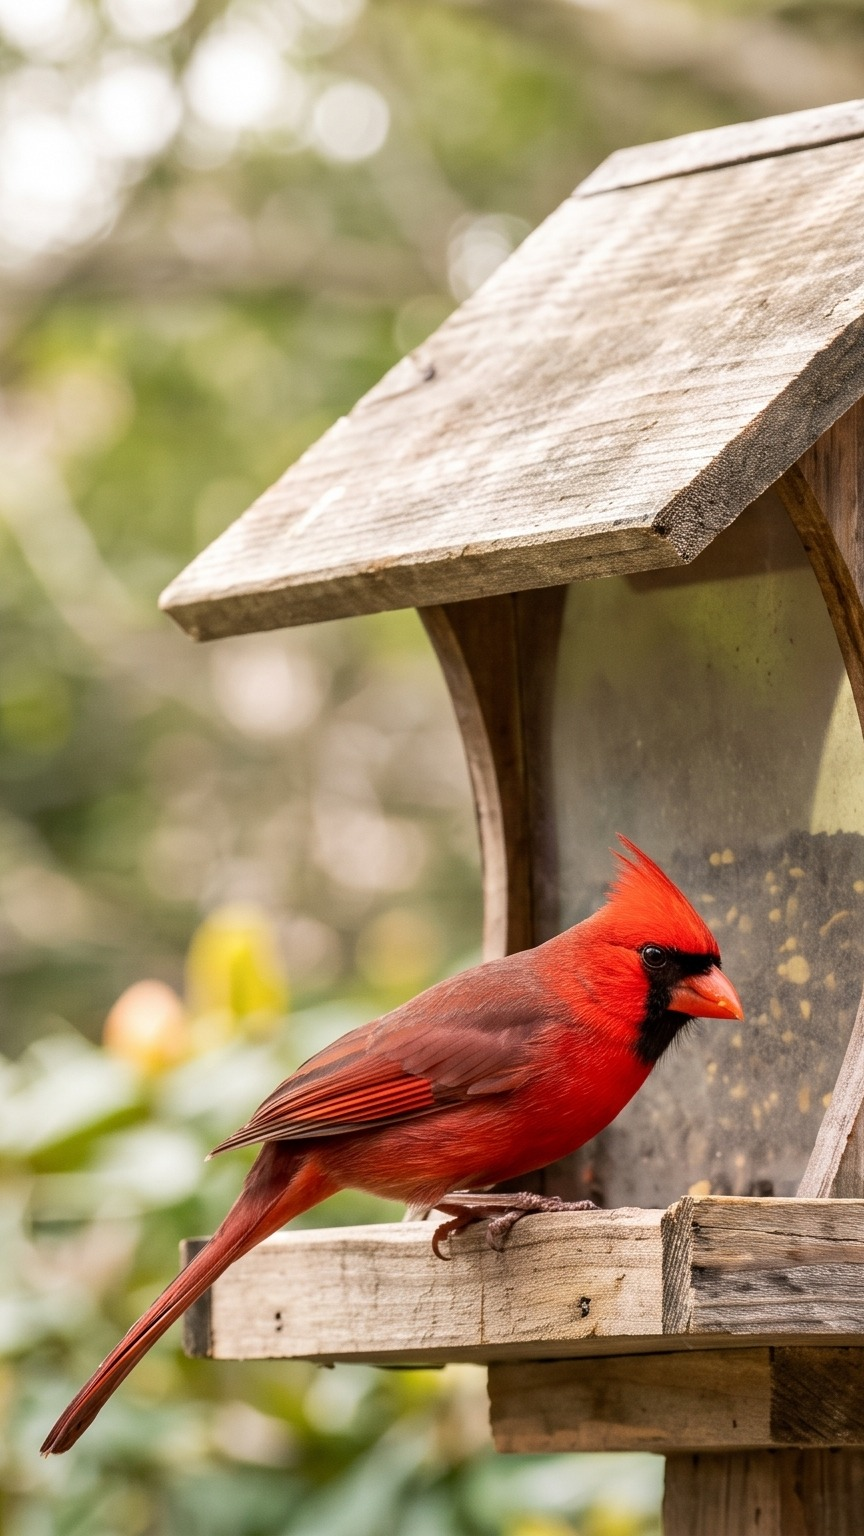
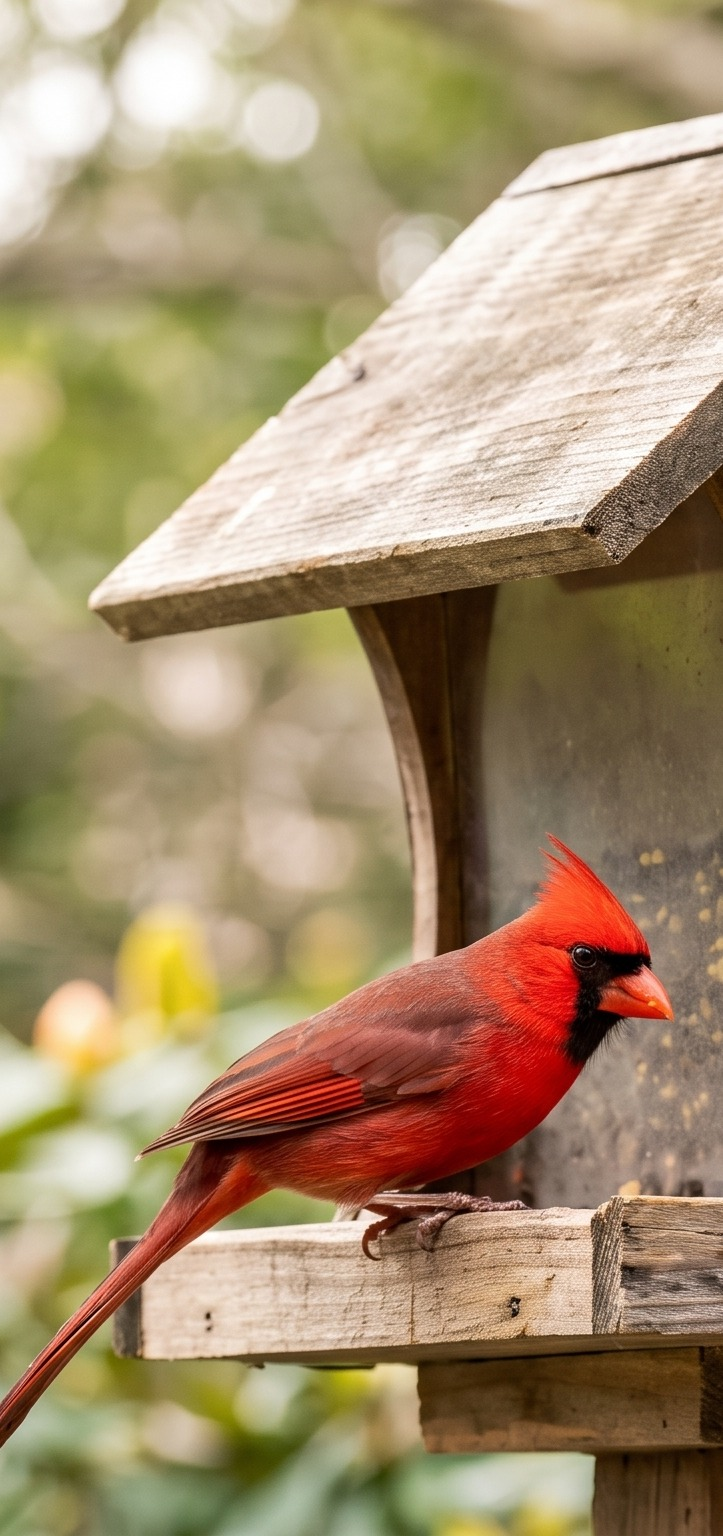
finally got somewhere

diff --git a/store_assets/screenshot-pipeline/quad-editor.html b/store_assets/screenshot-pipeline/quad-editor.html
@@ -1,0 +1,194 @@
+<!DOCTYPE html>
+<!-- Manual quad editor: drag the composited UI corners onto the device screens,
+     then copy the manifest-ready quads. Usage (from this directory):
+       open "quad-editor.html?slot=mac0"
+     Wheel = zoom, drag background = pan, drag circles = move corners.
+     Alt-drag a circle = move the whole quad. -->
+<html>
+<head>
+<meta charset="utf-8">
+<title>Quad editor</title>
+<style>
+  html, body { margin: 0; height: 100%; background: #1e1e20; color: #eee;
+               font: 13px -apple-system, sans-serif; overflow: hidden; }
+  #stage { position: absolute; inset: 0 320px 0 0; overflow: hidden; cursor: grab; }
+  #world { position: absolute; transform-origin: 0 0; }
+  #world img.scene { display: block; user-select: none; -webkit-user-drag: none; }
+  .surf { position: absolute; top: 0; left: 0; transform-origin: 0 0; opacity: 0.9; }
+  .surf img { width: 100%; height: 100%; display: block; }
+  .handle { position: absolute; width: 26px; height: 26px; margin: -13px 0 0 -13px;
+            border-radius: 50%; border: 3px solid #0af; background: rgba(0,170,255,.25);
+            cursor: crosshair; z-index: 10; }
+  .handle.h1 { border-color: #fa0; background: rgba(255,170,0,.25); }
+  #panel { position: absolute; top: 0; right: 0; bottom: 0; width: 320px;
+           background: #2a2a2e; padding: 14px; box-sizing: border-box;
+           display: flex; flex-direction: column; gap: 10px; }
+  textarea { flex: 1; background: #1a1a1c; color: #9f9; border: 1px solid #444;
+             font: 12px ui-monospace, monospace; padding: 8px; white-space: pre; }
+  button { padding: 10px; font-size: 14px; background: #0a84ff; color: white;
+           border: 0; border-radius: 8px; cursor: pointer; }
+  button:active { opacity: .7; }
+  label { display: flex; gap: 8px; align-items: center; }
+  input[type=range] { flex: 1; }
+  .hint { color: #999; font-size: 11px; line-height: 1.5; }
+</style>
+</head>
+<body>
+<div id="stage"><div id="world"></div></div>
+<div id="panel">
+  <b id="title">quad editor</b>
+  <label>UI opacity <input type="range" id="op" min="20" max="100" value="90"></label>
+  <textarea id="out" readonly spellcheck="false"></textarea>
+  <button id="copy">Copy quads to clipboard</button>
+  <div class="hint">
+    Wheel: zoom &middot; drag background: pan<br>
+    Drag a circle: move that corner<br>
+    &#8997; Alt-drag a circle: move the whole quad<br>
+    Blue = surface 0, orange = surface 1.<br>
+    When happy, press Copy and paste the block back to Claude.
+  </div>
+</div>
+<script src="manifest.js"></script>
+<script>
+(() => {
+  const params = new URLSearchParams(location.search);
+  const slotId = params.get("slot") || "mac0";
+  const slot = window.MANIFEST.slots[slotId];
+  if (!slot) { document.body.textContent = "unknown slot " + slotId; return; }
+  document.getElementById("title").textContent = "quad editor — " + slotId;
+
+  // --- homography (same math as template.html) ---
+  function basisToPoints(p1, p2, p3, p4) {
+    const m = [p1[0], p2[0], p3[0], p1[1], p2[1], p3[1], 1, 1, 1];
+    const v = solve(m, [p4[0], p4[1], 1]);
+    return mul(m, [v[0], 0, 0, 0, v[1], 0, 0, 0, v[2]]);
+  }
+  function solve(m, v) {
+    const inv = invert(m);
+    return [dot(inv, 0, v), dot(inv, 1, v), dot(inv, 2, v)];
+  }
+  function invert(m) {
+    const [a,b,c,d,e,f,g,h,i] = m;
+    const A = e*i-f*h, B = c*h-b*i, C = b*f-c*e;
+    const det = a*A + d*B + g*C;
+    return [A/det, B/det, C/det,
+            (f*g-d*i)/det, (a*i-c*g)/det, (c*d-a*f)/det,
+            (d*h-e*g)/det, (b*g-a*h)/det, (a*e-b*d)/det];
+  }
+  const dot = (m, r, v) => m[r*3]*v[0] + m[r*3+1]*v[1] + m[r*3+2]*v[2];
+  function mul(a, b) {
+    const r = [];
+    for (let i = 0; i < 3; i++) for (let j = 0; j < 3; j++)
+      r[3*i+j] = a[3*i]*b[j] + a[3*i+1]*b[3+j] + a[3*i+2]*b[6+j];
+    return r;
+  }
+  function matrix3d(w, h, quad) {
+    const s = basisToPoints([0,0],[w,0],[0,h],[w,h]);
+    const d = basisToPoints(...quad);
+    const t = mul(d, invert(s));
+    for (let i = 0; i < 9; i++) t[i] /= t[8];
+    const m = [t[0],t[3],0,t[6], t[1],t[4],0,t[7], 0,0,1,0, t[2],t[5],0,t[8]];
+    return "matrix3d(" + m.join(",") + ")";
+  }
+
+  // --- state ---
+  const world = document.getElementById("world");
+  const stage = document.getElementById("stage");
+  let zoom = 0.35, panX = 20, panY = 20;
+  const quads = slot.surfaces.map(s => s.quad.map(p => p.slice()));
+
+  const scene = new Image();
+  scene.className = "scene";
+  scene.src = slot.scene;
+  world.appendChild(scene);
+
+  const surfEls = slot.surfaces.map((s, i) => {
+    const el = document.createElement("div");
+    el.className = "surf";
+    el.style.width = s.size[0] + "px";
+    el.style.height = s.size[1] + "px";
+    const img = document.createElement("img");
+    img.src = s.ui || s.img;
+    el.appendChild(img);
+    world.appendChild(el);
+    return el;
+  });
+  const handles = quads.flatMap((q, si) => q.map((p, ci) => {
+    const h = document.createElement("div");
+    h.className = "handle h" + si;
+    h.dataset.si = si; h.dataset.ci = ci;
+    world.appendChild(h);
+    return h;
+  }));
+
+  function render() {
+    world.style.transform = `translate(${panX}px,${panY}px) scale(${zoom})`;
+    slot.surfaces.forEach((s, i) => {
+      surfEls[i].style.transform = matrix3d(s.size[0], s.size[1], quads[i]);
+    });
+    handles.forEach(h => {
+      const p = quads[h.dataset.si][h.dataset.ci];
+      h.style.left = p[0] + "px";
+      h.style.top = p[1] + "px";
+      h.style.width = 26/zoom + "px"; h.style.height = 26/zoom + "px";
+      h.style.margin = `${-13/zoom}px 0 0 ${-13/zoom}px`;
+      h.style.borderWidth = 3/zoom + "px";
+    });
+    const txt = quads.map((q, i) =>
+      `// ${slotId} surface ${i}\nquad: [${q.map(p => `[${Math.round(p[0])}, ${Math.round(p[1])}]`).join(", ")}],`
+    ).join("\n");
+    document.getElementById("out").value = txt;
+  }
+
+  // --- interaction ---
+  let drag = null;
+  handles.forEach(h => h.addEventListener("pointerdown", e => {
+    e.stopPropagation(); e.preventDefault();
+    const si = +h.dataset.si, ci = +h.dataset.ci;
+    drag = { si, ci, all: e.altKey, x: e.clientX, y: e.clientY,
+             start: quads[si].map(p => p.slice()) };
+    h.setPointerCapture(e.pointerId);
+  }));
+  window.addEventListener("pointermove", e => {
+    if (drag) {
+      const dx = (e.clientX - drag.x)/zoom, dy = (e.clientY - drag.y)/zoom;
+      if (drag.all) {
+        quads[drag.si] = drag.start.map(p => [p[0]+dx, p[1]+dy]);
+      } else {
+        quads[drag.si][drag.ci] = [drag.start[drag.ci][0]+dx, drag.start[drag.ci][1]+dy];
+      }
+      render();
+    } else if (pan) {
+      panX = pan.px + e.clientX - pan.x;
+      panY = pan.py + e.clientY - pan.y;
+      render();
+    }
+  });
+  window.addEventListener("pointerup", () => { drag = null; pan = null; });
+  let pan = null;
+  stage.addEventListener("pointerdown", e => {
+    pan = { x: e.clientX, y: e.clientY, px: panX, py: panY };
+  });
+  stage.addEventListener("wheel", e => {
+    e.preventDefault();
+    const k = Math.exp(-e.deltaY * 0.0015);
+    const rx = e.clientX - panX, ry = e.clientY - panY;
+    zoom *= k; panX = e.clientX - rx*k; panY = e.clientY - ry*k;
+    render();
+  }, { passive: false });
+  document.getElementById("op").addEventListener("input", e => {
+    surfEls.forEach(el => el.style.opacity = e.target.value/100);
+  });
+  document.getElementById("copy").addEventListener("click", () => {
+    const ta = document.getElementById("out");
+    ta.select(); document.execCommand("copy");
+    document.getElementById("copy").textContent = "Copied ✓";
+    setTimeout(() => document.getElementById("copy").textContent = "Copy quads to clipboard", 1200);
+  });
+
+  scene.onload = render;
+  render();
+})();
+</script>
+</body>
+</html>

diff --git a/store_assets/screenshot-pipeline/manifest.js b/store_assets/screenshot-pipeline/manifest.js
@@ -263,7 +263,7 @@ window.MANIFEST = {
       surfaces: [
         {
           // MacBook screen: real Catalyst camera UI, live view of the watch.
-          quad: [[30, 1375], [505, 1310], [99, 1706], [536, 1620]],
+          quad: [[30, 1396], [464, 1319], [102, 1705], [533, 1602]],
           size: [3842, 2102],
           bezel: 0,
           radius: 18,
@@ -274,7 +274,7 @@ window.MANIFEST = {
         {
           // iPhone in her hand: real monitor UI, live preview of the watch —
           // same treatment as slot 3's remote phone.
-          quad: [[905, 951], [1130, 936], [985, 1429], [1173, 1408]],
+          quad: [[910, 952], [1114, 928], [979, 1417], [1183, 1392]],
           size: [1210, 2572],
           bezel: 0,
           radius: 185,
@@ -322,7 +322,8 @@ window.MANIFEST = {
           bezel: 0,
           radius: 170,
           chrome: "camera",
-          img: "../ai-scenes/mac3_preview_zoom.jpg",
+          // Exactly the frame shown on the Mac (same file, phone-screen aspect).
+          img: "../ai-scenes/mac3_preview_port.jpg",
           pos: "50% 50%",
           scale: 1.0
         }
